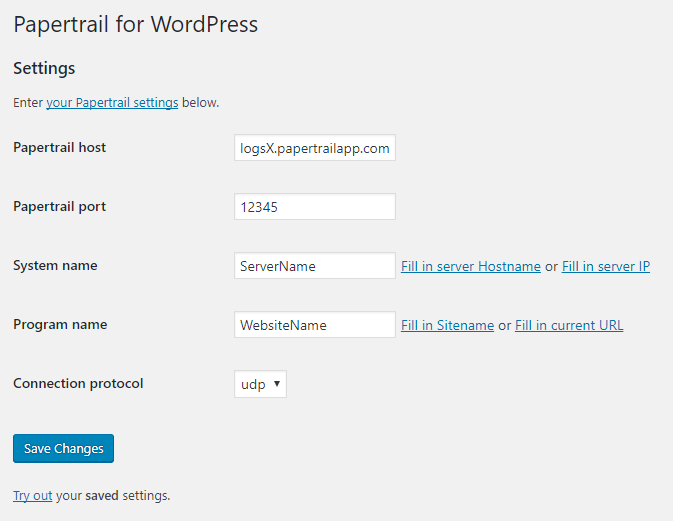
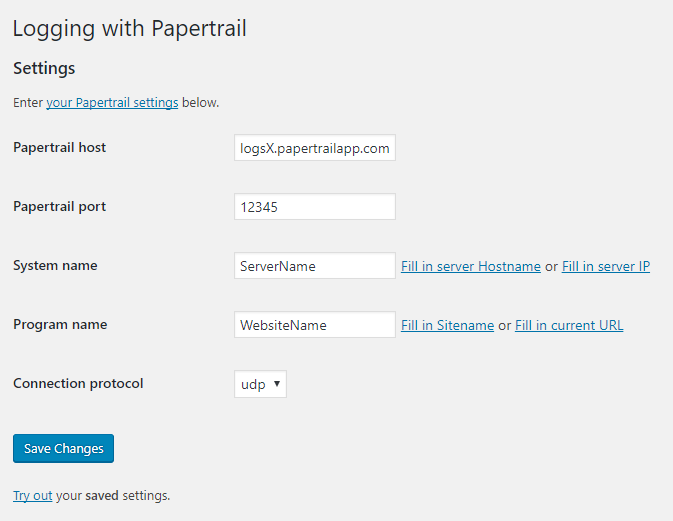
rename to logging with papertrail

Changed region(s): [[0.0, 0.0307, 0.4056, 0.0921]]

diff --git a/php/papertrail-admin-page.php b/php/papertrail-admin-page.php
@@ -24,7 +24,7 @@ class PapertrailAdminPage
     // This page will be under "Settings"
     add_options_page(
       'Logging with Papertrail', 
-      'Papertrail for WP', 
+      'Logging Papertrail', 
       'manage_options', 
       'logging-with-papertrail-settings', 
       array( $this, 'create_admin_page' )
